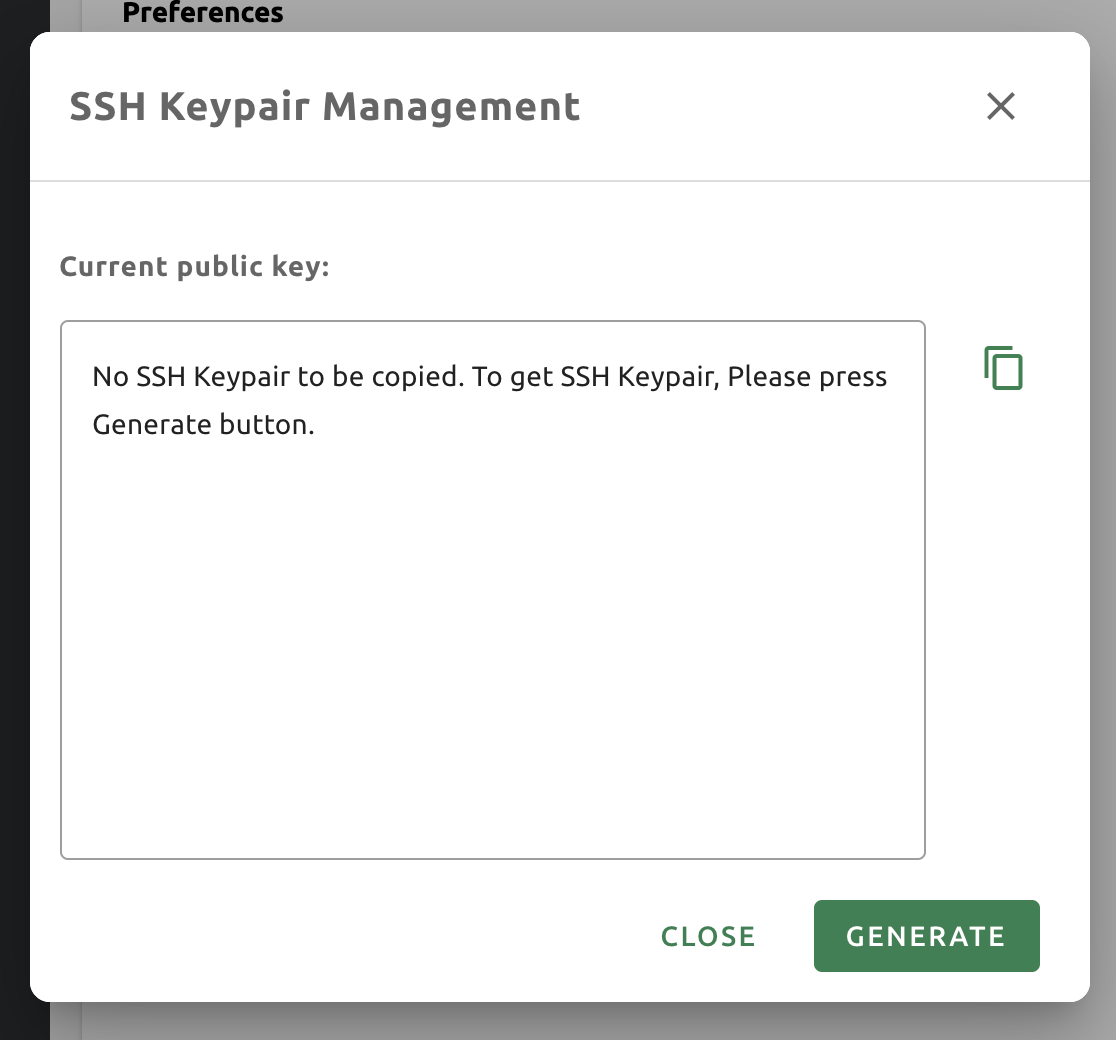
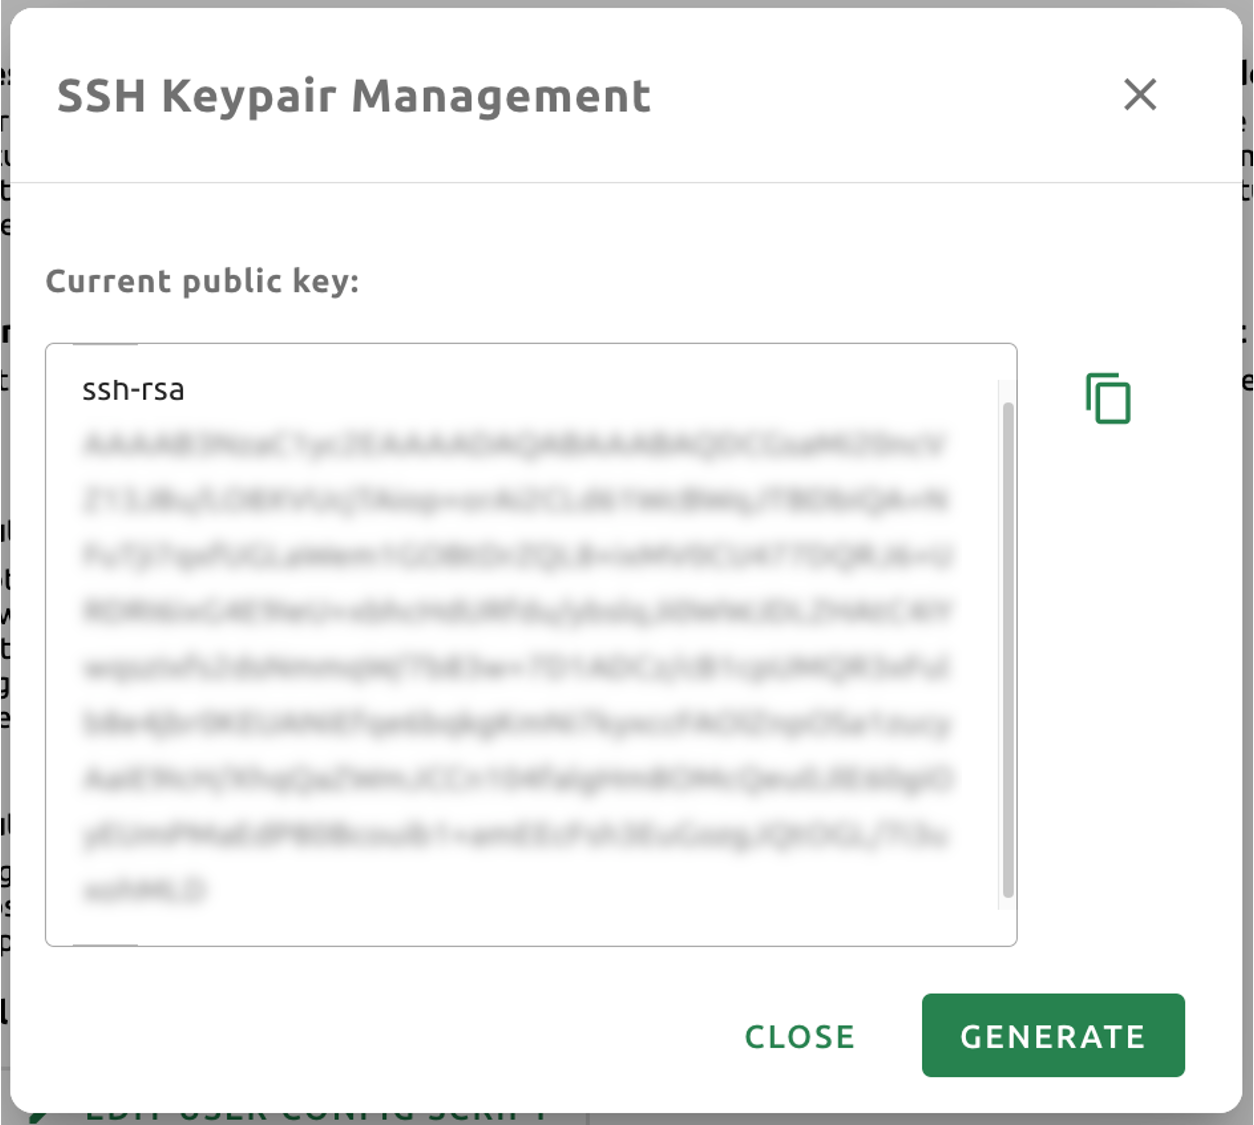
docs: update ssh keypair image and following descriptions

diff --git a/docs/user_setting/user_settings.rst b/docs/user_setting/user_settings.rst
@@ -49,8 +49,9 @@ SSH Keypair Management
 This is a feature that retrieves and creates the SSH keypair required when
 connecting directly to the compute session via SSH. If you click the button on
 the right, the following dialog appears. Click the copy button on the right to
-copy the existing SSH public key. If there is no SSH keypair or if you want to
-renew it, click the GENERATE button. SSH public/private keys are randomly
+copy the existing SSH public key. There will be provided public key when you 
+signed in Backend.AI. You can update SSH keypair by clicking generate button
+on the right bottom of the dialog. SSH public/private keys are randomly
 generated and stored as user information. Please note that the secret key cannot
 be checked again unless it is saved manually immediately after creation.
 
